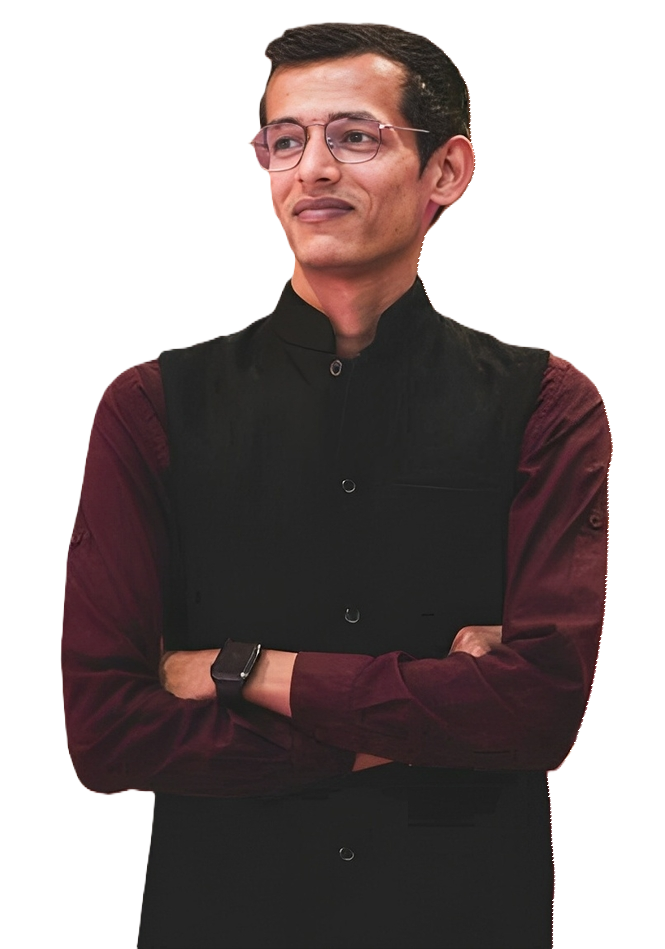
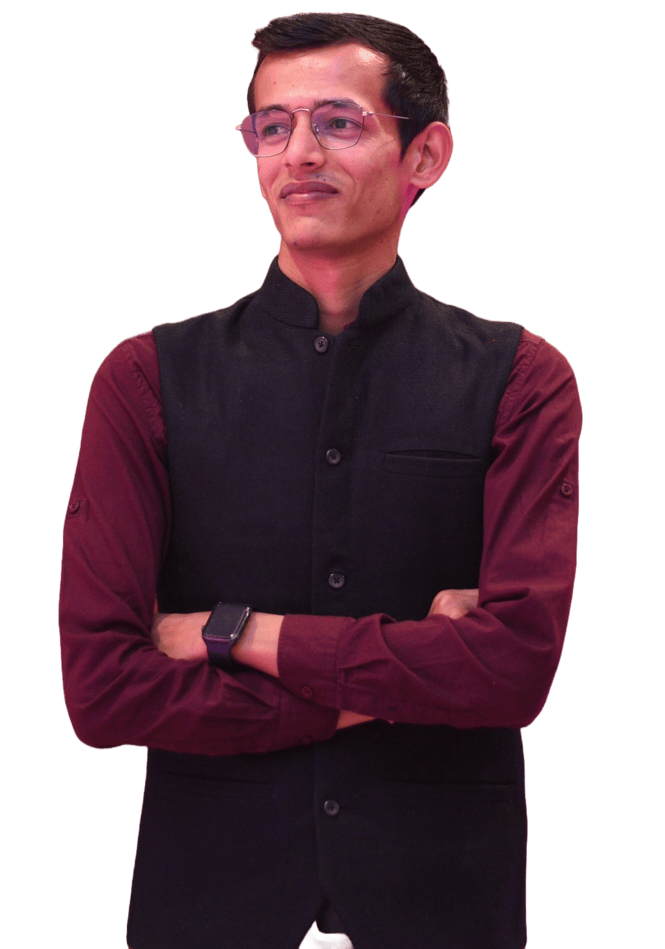
update the protfolio picture

diff --git a/index.html b/index.html
@@ -83,7 +83,7 @@
 
                 <div class="hero-portrait">
                     <div class="image">
-                        <img class="img-fluid" src="assets/images/portrait/rajneesh.png" alt="">
+                        <img class="img-fluid" src="assets/images/portrait/rajneesh-sharma.png" alt="">
 
                         <div class="image-half-round-shape"></div>
                         <div class="social-link">
